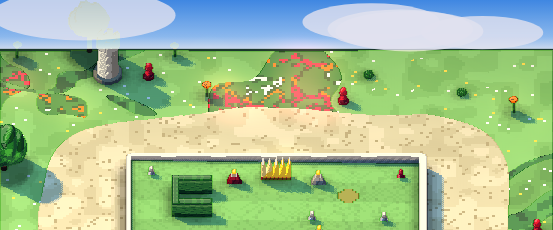
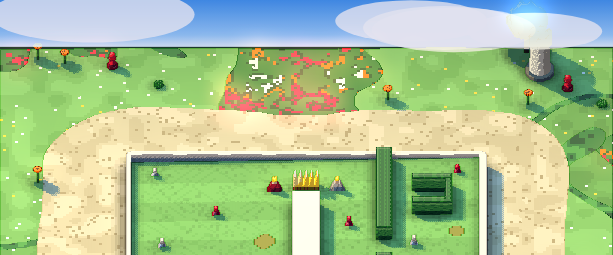
Putt Putt: Queen Alice gets her own layout, and check-putt catches a hole that is an earlier one reskinned
World 23's signature hole was Olympus' Throne of Zeus and Wonderland's Croquet Ground with its pieces swapped: the same three
rooms, the same water strip, mound, mud, pen and the old hedgehogs' coordinates. Queen Alice (414) is now her own feast hall, shaped
like a crown: in at a narrow gate, a hedge right across the hall with a glass at the far left, the long table laid up the middle
with the two Queens at its head, and the flag in a side room behind a hedge that runs up the hall with its glass set on its side,
so a ball that goes in falling comes out rising. Par 4 from the solver (three putts, every one through a glass), fair.mjs worst
1%, no tunnel, no ace, and a new skin lgfeast for the table. World 23 is still 11 par 3 and 7 par 4, average 3.39.

The duplicate-layout check keyed a hole on its piece COUNTS, so one more rose bush (or a hedgehog for a column) made a new layout to
it: that is why it caught 391 against 372 until a rose was added, and never caught 394, 396 or the old 414. A new claim fails a hole
that has an earlier hole's shell (its rooms to the half foot) and shares at least 70% of that hole's geometry, at least four things
of it: walls and blocks, water, mounds, cup and tee. The pen and the dish round the cup and every piece, bumper and skin are left
out, so swapping them changes nothing. It failed on the old 414 (against 378 and 396) and passes on the new one. The live near-copies
[…]

diff --git a/golf/putt/putt.js b/golf/putt/putt.js
@@ -3344,16 +3344,17 @@ The ship came across a calm grey sea to Medusa's island: felt the colour of the 
     pawns(H, [[-5.5, -5.5], [3, -5], [0.5, -16], [5.5, -17], [-6, -19], [2.5, -21.5], [1, -29], [5, -31], [5.5, -38.5], [1.5, -40], [-6.4, -46.4, 0.45], [6.4, -46.4, 0.45], [-6, -33], [-6.5, -42]]);
     H.comps.push({ k:'plane', gx:0.01, gy:0 }); H.comps.push({ k:'mound', x:3.5, y:-35, s:1.6, a:0.12 }); zoneC(H, M.MUD, 6, -6, 0.8); zoneC(H, M.MUD, 5, -24, 0.8);
     teeSide(H, T); bowl(H, -2.5, -42, 1.5, 0.14); return H; } },
-  // Queen Alice: the eighth square at last, and a golden crown on her head. Up through the gate, round the brook by its way at the
-  // left, across the square to the castle hedge and through the glass at its far end, the plum-cake on the way, and back along
-  // the top to the flag. The Red Queen and the White Queen sit either side of her crown, fast asleep.
-  { par:4, three:3, sig:true, f:function(T){ var H = hole([rm(-8, 0, 8, -14), rm(-2.4, -13.9, 2.4, -18.1), rm(-12, -18, 12, -48)], [0, -2.5], [-7, -43]);
-    addBumper(H, 0, -46, 1.3, 'lgcrown'); addBumper(H, -3.5, -45.5, 0.7, 'lgqueen'); addBumper(H, 3.5, -45.5, 0.7, 'lgwqueen');
-    zoneR(H, M.WATER, -6, -25, 12, -28.4); blk(H, T, -6, -24.6, 12, -25); blk(H, T, -6, -28.4, 12, -28.8);
-    glassWall(H, T, -12, 12, -36.7, 10, 3.2); addBumper(H, 7.6, -32.2, 0.6, 'lgcake'); addBumper(H, 3.6, -38.8, 0.6, 'lgwqueen');
-    pawns(H, [[-9, -21], [9, -41], [-8, -32], [3, -41], [4, -21.5], [-4, -6], [4, -7], [-10.4, -46.4, 0.45], [10.4, -46.4, 0.45], [1, -31], [-1, -20.5], [-3.5, -33.5]]);
-    H.comps.push({ k:'mound', x:-3, y:-7, s:1.8, a:0.14 }); H.comps.push({ k:'plane', gx:-0.008, gy:0 }); zoneC(H, M.MUD, 6, -44, 0.8); zoneR(H, M.MUD, 5.5, -12, 8, -14);
-    pen(H, T, -7, -43); teeSide(H, T); bowl(H, -7, -43, 1.5, 0.14); return H; } }
+  // Queen Alice: the eighth square at last, a golden crown on her head, and her feast. In through the narrow gate the hall opens
+  // out like a crown. A hedge runs right across it with a glass at the far left, and the long table is laid up the middle from it,
+  // the Red Queen and the White Queen at its head. The flag is in the side room on the right, behind a hedge that runs up the hall
+  // with a glass set in it on its side: a ball that goes into it falling comes out of it rising.
+  { par:4, three:3, sig:true, f:function(T){ var H = hole([pg([[-6, 0], [6, 0], [6, -9], [14.5, -17.5], [14.5, -41], [-14.5, -41], [-14.5, -17.5], [-6, -9]])], [0, -2.5], [10.5, -36]);
+    glassWall(H, T, -14.5, 14.5, -21.5, -9.5, 3.2); addBlock(H, -1.1, -22.1, 1.1, -35.5, 'lgfeast'); glassWallV(H, T, 6.5, -22.1, -41, -29.5, 3.2);
+    addBumper(H, 0, -37.6, 1.1, 'lgcrown'); addBumper(H, -2.6, -37.4, 0.7, 'lgqueen'); addBumper(H, 2.6, -37.4, 0.7, 'lgwqueen'); addBumper(H, 10.6, -24.6, 0.6, 'lgcake');
+    zoneR(H, M.WATER, -14.5, -13, -11.6, -17.5); blk(H, T, -11.2, -14, -10.8, -17.4);
+    pawns(H, [[-4, -5], [3.8, -7.5], [-7.5, -13.5], [8, -14], [11.5, -19], [3, -18.5], [-5, -26], [-12, -30.5], [-7.5, -34.5], [4, -27], [3.6, -33], [-12.6, -39.4, 0.45], [12.6, -39.4, 0.45], [9, -30.5]]);
+    H.comps.push({ k:'plane', gx:0.009, gy:0 }); H.comps.push({ k:'mound', x:-9.5, y:-29, s:2, a:0.12 }); zoneC(H, M.MUD, -3.5, -31, 0.8); zoneC(H, M.MUD, 12.5, -32, 0.6);
+    pen(H, T, 10.5, -36); teeSide(H, T); bowl(H, 10.5, -36, 1.5, 0.14); return H; } }
 ];
 /* THE MEMBERS TOUR: the season's own eighteen, for Tour Pass holders, two halves of nine on the season's two
    themes. Par is the solver's, the same rule as the Putt Putt Tour.
@@ -3975,6 +3976,10 @@ var SKIN = {
     if (Math.abs(v - 0.1 + u * u * 1.2) < 0.04 && au < 0.3) return '#b8283a'; return '#fbf6e8'; },   // and its grin
   lgshelf:function(u, v){ if (Math.abs(u) > 0.97 || Math.abs(v) > 0.95) return null; if (Math.abs(u) > 0.88 || Math.abs(v) > 0.84) return '#5a3a22'; var row = ((v + 1) * 2) % 1;
     if (row < 0.12) return '#7a5a3a'; var k = Math.floor((u + 1) * 7); return ['#c8283a', '#3a5aa8', '#e8c040', '#f4f0e4', '#4a8a46', '#8a5ab8', '#d88a3a'][k % 7]; },
+  // Queen Alice's feast laid down its long table: a white cloth, the candles, the leg of mutton and the plum-pudding
+  lgfeast:function(u, v){ if (Math.abs(u) > 0.97 || Math.abs(v) > 0.95) return null; if (Math.abs(u) > 0.86 || Math.abs(v) > 0.88) return Math.sin(v * 40) > 0.3 ? '#e8e4dc' : '#f4f2ec';
+    var cv = ((v + 1) * 2.5) % 1 - 0.5, k = Math.floor((v + 1) * 2.5); if (Math.abs(u) < 0.2 && Math.abs(cv) < 0.2) return k % 3 === 0 ? '#a8642a' : k % 3 === 1 ? '#5a2a1a' : '#e8c040';
+    if (Math.abs(Math.abs(u) - 0.55) < 0.08 && Math.abs(cv) < 0.08) return '#fff4c8'; return '#fbfaf6'; },
   lgbook:function(u, v){ if (Math.abs(u) > 0.97 || Math.abs(v) > 0.92) return null; if (Math.abs(u) > 0.88 || Math.abs(v) > 0.8) return '#6a2a1a'; if (Math.abs(u) < 0.04) return '#c8bca0';
     var row = ((v + 1) * 6) % 1, cl = Math.abs(((u + 1) * 9) % 1 - 0.5); if (row > 0.55 && row < 0.72 && cl < 0.42 && Math.abs(u) > 0.12) return '#3a3028'; return '#f4ecd6'; },
   lgfly:function(u, v){ var au = Math.abs(u); if (Math.hypot(u, v) < 0.28) return v < -0.1 ? '#7a4a24' : '#a86a34'; if (Math.hypot(au - 0.45, v + 0.25) < 0.3) return '#e8f0ff';
